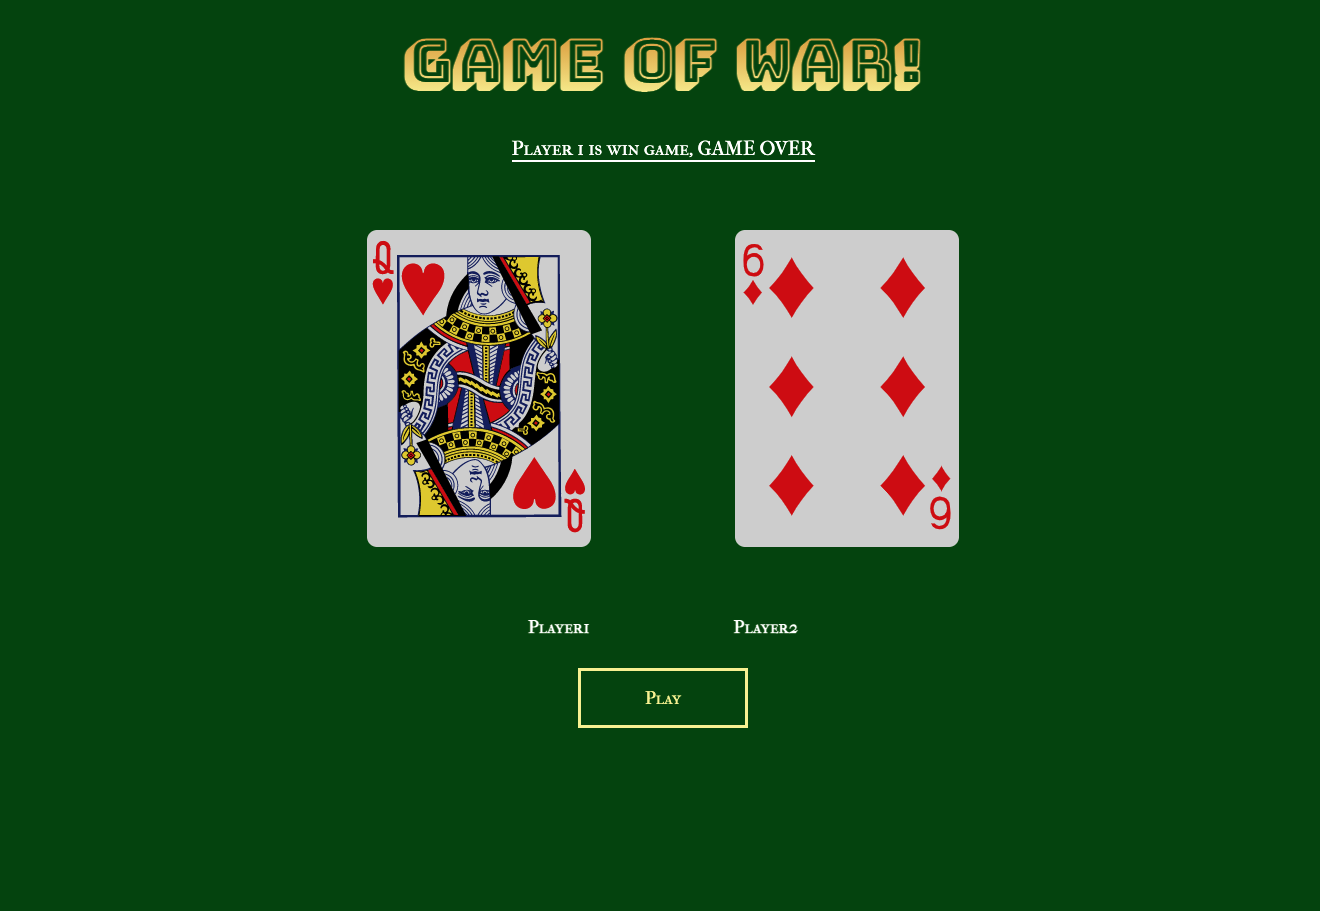
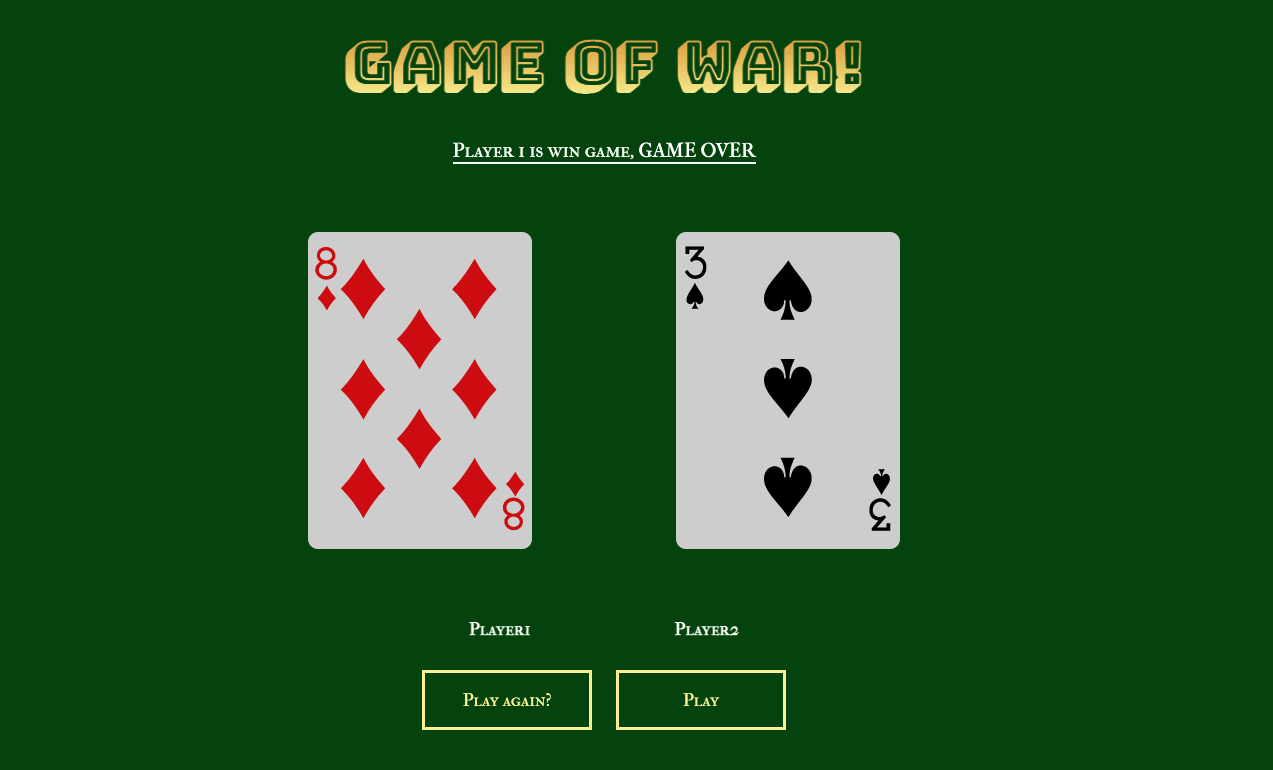
game of war

diff --git a/js/main.js b/js/main.js
@@ -142,8 +142,21 @@ let nextP = document.getElementById("playBtn");
 nextP.addEventListener('click',play)
 let hideBtn = document.querySelector(".closeTab");
 hideBtn.addEventListener('click',hide)
+let restartB = document.getElementById("resetBtn");
+restartB.addEventListener('click',newG)
 
 const styles = [cardV.hearts,cardV.spades,cardV.diamonds,cardV.clubs];
+
+function newG () {
+    location.reload();
+    return false;
+    // console.log('newG')
+}
+
+// let restartB = document.getElementById("resetBtn").addEventListener('click', function (restartB) {
+//     location.reload(true);
+// })
+
 
 function hide() {
     document.querySelector("#alertTab").style.display='none';
@@ -218,4 +231,3 @@ function winnerEnd (scoreP1,scoreP2) {
     }
 }
 
-   

diff --git a/index.html b/index.html
@@ -39,6 +39,7 @@
                                     </div>
                                 <div id='gameBtn'>  
                                     <!-- <button id='shuffleBtn'>Shuffle card</button> -->
+                                    <button id='resetBtn'>Play again?</button>
                                     <button id='playBtn'>Play</button>
                                 </div>
                 </div>

diff --git a/css/style.css b/css/style.css
@@ -43,7 +43,8 @@ h1 {
 } 
 
 #shuffleBtn,
-#playBtn
+#playBtn,
+#resetBtn
  {
     background-color: #004D00;
     color:#F9F295;

diff --git a/README.md b/README.md
@@ -11,12 +11,18 @@ Screenshot
 ![endgame](assets/imagescreenshot/gameend.jpg)
 
 Technologies Used
-
 - Javascript 
 - HTML
 - CSS
 
 Getting Started
+https://jinnyyyyy.github.io/Game-of-WAR-/
+
+Instruction
+Pressed the play button to play.
+On the top, It will let you know which player is winning.
+when player reach the certain number, game over
 
 Next Step
 
+Add the rule of game messages, Seperated button for play and restart. 
